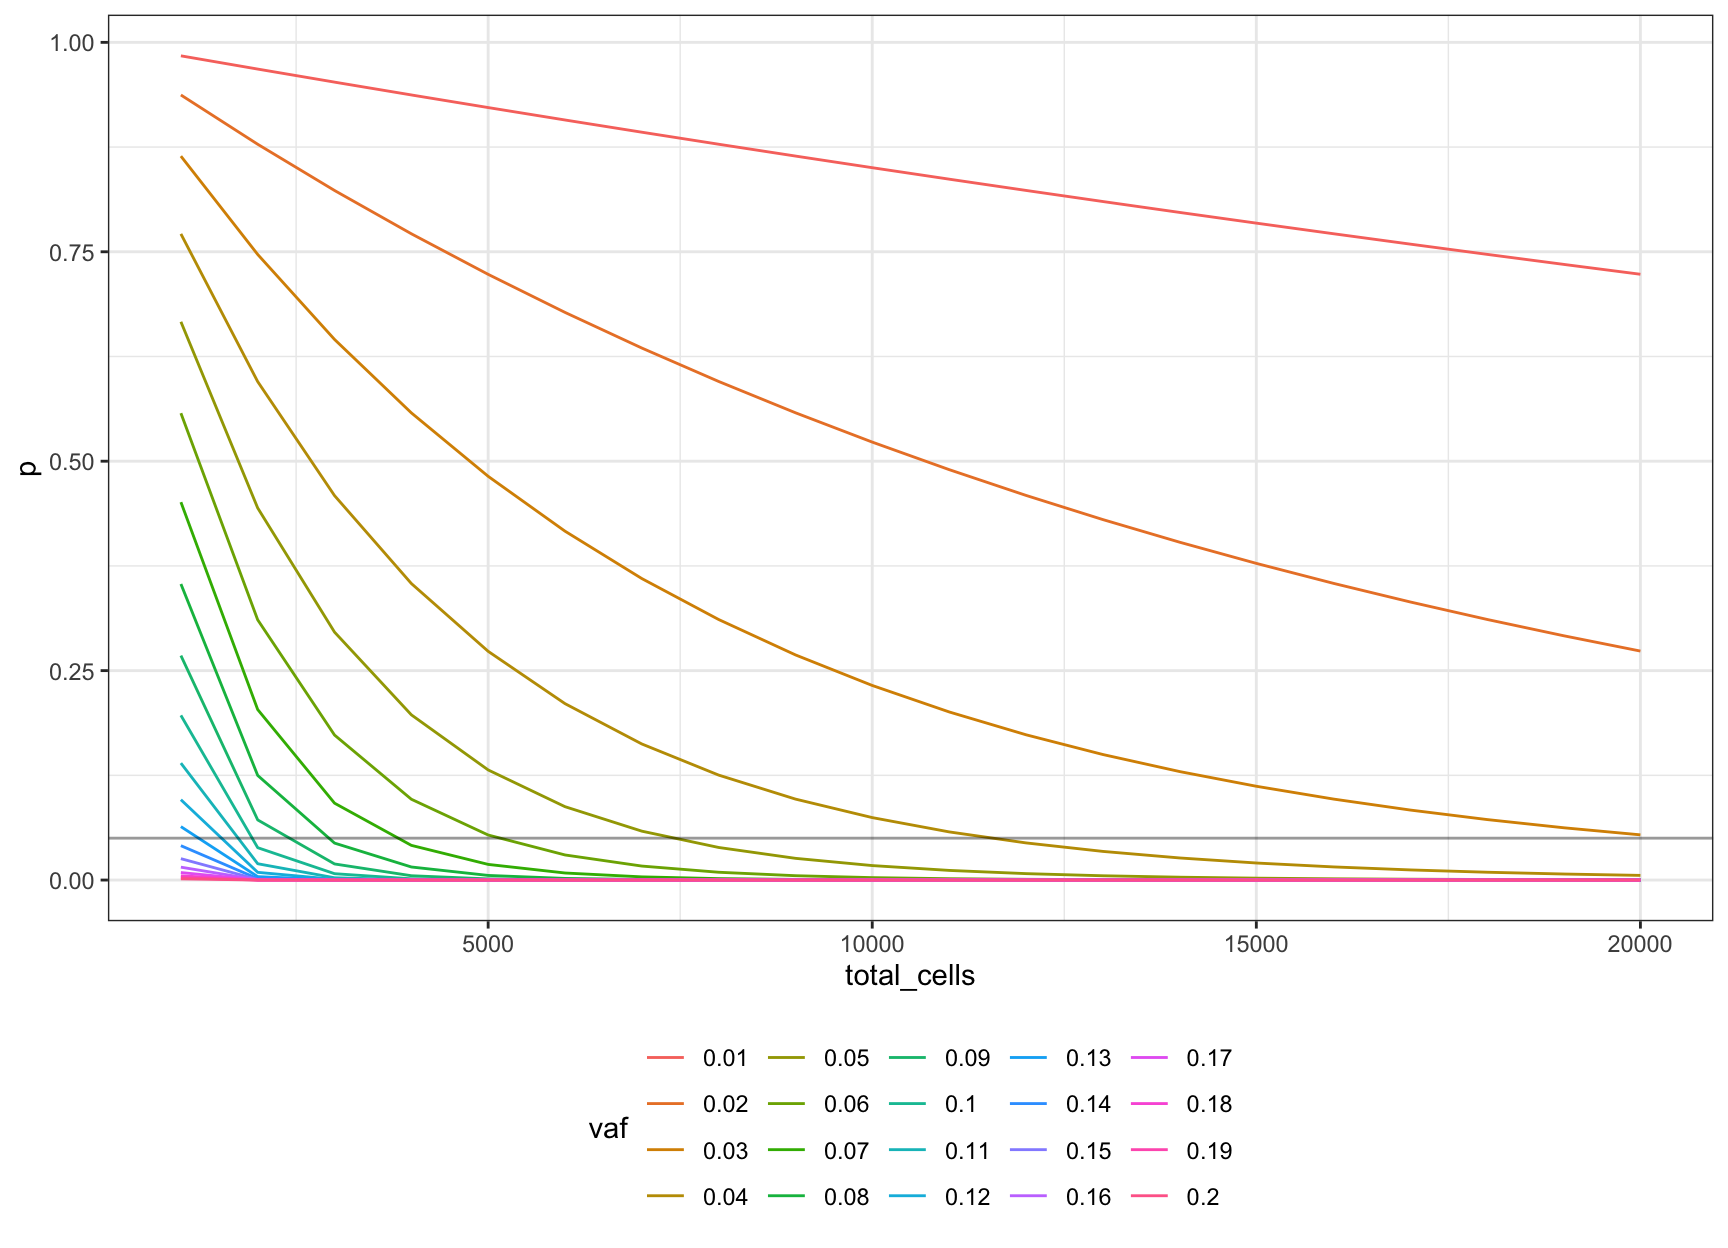
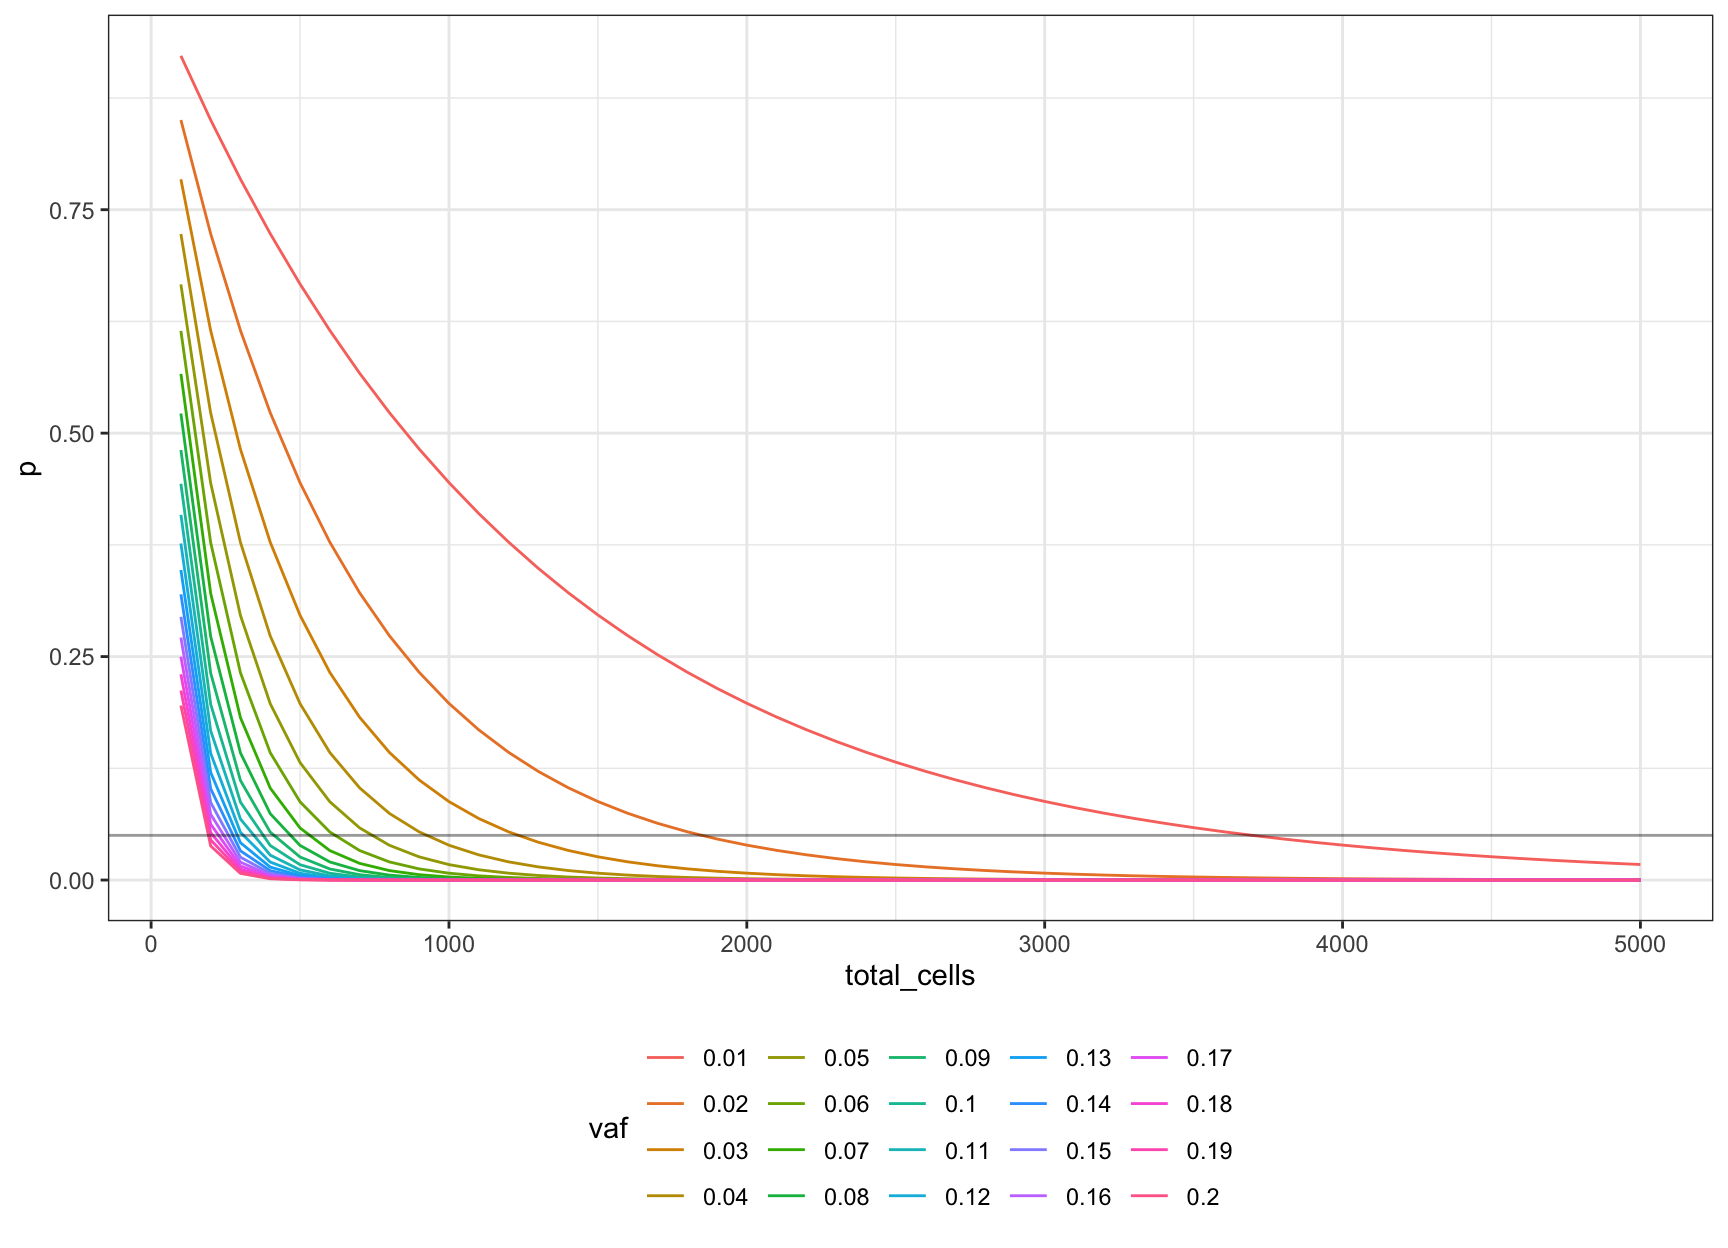
Fix probability of selecting mutant fragment

diff --git a/docs/model.html b/docs/model.html
@@ -367,7 +367,7 @@ div.tocify {
 
 <p>
 <button type="button" class="btn btn-default btn-workflowr btn-workflowr-report" data-toggle="collapse" data-target="#workflowr-report">
-<span class="glyphicon glyphicon-list" aria-hidden="true"></span> workflowr <span class="glyphicon glyphicon-ok text-success" aria-hidden="true"></span>
+<span class="glyphicon glyphicon-list" aria-hidden="true"></span> workflowr <span class="glyphicon glyphicon-exclamation-sign text-danger" aria-hidden="true"></span>
 </button>
 </p>
 <div id="workflowr-report" class="collapse">
@@ -376,7 +376,7 @@ div.tocify {
 <a data-toggle="tab" href="#summary">Summary</a>
 </li>
 <li>
-<a data-toggle="tab" href="#checks"> Checks <span class="glyphicon glyphicon-ok text-success" aria-hidden="true"></span> </a>
+<a data-toggle="tab" href="#checks"> Checks <span class="glyphicon glyphicon-exclamation-sign text-danger" aria-hidden="true"></span> </a>
 </li>
 <li>
 <a data-toggle="tab" href="#versions">Past versions</a>
@@ -388,7 +388,7 @@ div.tocify {
 <strong>Last updated:</strong> 2021-09-22
 </p>
 <p>
-<strong>Checks:</strong> <span class="glyphicon glyphicon-ok text-success" aria-hidden="true"></span> 7 <span class="glyphicon glyphicon-exclamation-sign text-danger" aria-hidden="true"></span> 0
+<strong>Checks:</strong> <span class="glyphicon glyphicon-ok text-success" aria-hidden="true"></span> 6 <span class="glyphicon glyphicon-exclamation-sign text-danger" aria-hidden="true"></span> 1
 </p>
 <p>
 <strong>Knit directory:</strong> <code>rare-mutation-detection-rmarkdown/</code> <span class="glyphicon glyphicon-question-sign" aria-hidden="true" title="This is the local directory in which the code in this file was executed."> </span>
@@ -404,12 +404,12 @@ This reproducible <a href="http://rmarkdown.rstudio.com">R Markdown</a> analysis
 <div class="panel panel-default">
 <div class="panel-heading">
 <p class="panel-title">
-<a data-toggle="collapse" data-parent="#workflowr-checks" href="#strongRMarkdownfilestronguptodate"> <span class="glyphicon glyphicon-ok text-success" aria-hidden="true"></span> <strong>R Markdown file:</strong> up-to-date </a>
+<a data-toggle="collapse" data-parent="#workflowr-checks" href="#strongRMarkdownfilestronguncommittedchanges"> <span class="glyphicon glyphicon-exclamation-sign text-danger" aria-hidden="true"></span> <strong>R Markdown file:</strong> uncommitted changes </a>
 </p>
 </div>
-<div id="strongRMarkdownfilestronguptodate" class="panel-collapse collapse">
+<div id="strongRMarkdownfilestronguncommittedchanges" class="panel-collapse collapse">
 <div class="panel-body">
-<p>Great! Since the R Markdown file has been committed to the Git repository, you know the exact version of the code that produced these results.</p>
+<p>The R Markdown file has unstaged changes. To know which version of the R Markdown file created these results, you’ll want to first commit it to the Git repo. If you’re still working on the analysis, you can ignore this warning. When you’re finished, you can run <code>wflow_publish</code> to commit the R Markdown file and build the HTML.</p>
 </div>
 </div>
 </div>
@@ -476,16 +476,16 @@ This reproducible <a href="http://rmarkdown.rstudio.com">R Markdown</a> analysis
 <div class="panel panel-default">
 <div class="panel-heading">
 <p class="panel-title">
-<a data-toggle="collapse" data-parent="#workflowr-checks" href="#strongRepositoryversionstrongahrefhttpsgithubcommcmeroraremutationdetectiontreede62c5c7a87a259f517eaf6b99676351f539ecaetargetblankde62c5ca"> <span class="glyphicon glyphicon-ok text-success" aria-hidden="true"></span> <strong>Repository version:</strong> <a href="https://github.com/mcmero/rare-mutation-detection/tree/de62c5c7a87a259f517eaf6b99676351f539ecae" target="_blank">de62c5c</a> </a>
+<a data-toggle="collapse" data-parent="#workflowr-checks" href="#strongRepositoryversionstrongahrefhttpsgithubcommcmeroraremutationdetectiontree2f677c24ba1c15f37208066f5e54186e58037430targetblank2f677c2a"> <span class="glyphicon glyphicon-ok text-success" aria-hidden="true"></span> <strong>Repository version:</strong> <a href="https://github.com/mcmero/rare-mutation-detection/tree/2f677c24ba1c15f37208066f5e54186e58037430" target="_blank">2f677c2</a> </a>
 </p>
 </div>
[2 lines of base64/hex data omitted]
 <div class="panel-body">
 <p>
 Great! You are using Git for version control. Tracking code development and connecting the code version to the results is critical for reproducibility.
 </p>
 <p>
-The results in this page were generated with repository version <a href="https://github.com/mcmero/rare-mutation-detection/tree/de62c5c7a87a259f517eaf6b99676351f539ecae" target="_blank">de62c5c</a>. See the <em>Past versions</em> tab to see a history of the changes made to the R Markdown and HTML files.
+The results in this page were generated with repository version <a href="https://github.com/mcmero/rare-mutation-detection/tree/2f677c24ba1c15f37208066f5e54186e58037430" target="_blank">2f677c2</a>. See the <em>Past versions</em> tab to see a history of the changes made to the R Markdown and HTML files.
 </p>
 <p>
 Note that you need to be careful to ensure that all relevant files for the analysis have been committed to Git prior to generating the results (you can use <code>wflow_publish</code> or <code>wflow_git_commit</code>). workflowr only checks the R Markdown file, but you know if there are other scripts or data files that it depends on. Below is the status of the Git repository when the results were generated:
@@ -495,6 +495,9 @@ Ignored files:
     Ignored:    .DS_Store
     Ignored:    .Rhistory
     Ignored:    .Rproj.user/
+
+Unstaged changes:
+    Modified:   analysis/model.Rmd
 
 </code></pre>
 <p>
@@ -533,6 +536,23 @@ Message
 </tr>
 </thead>
 <tbody>
+<tr>
+<td>
+html
+</td>
+<td>
+<a href="https://rawcdn.githack.com/mcmero/rare-mutation-detection/2f677c24ba1c15f37208066f5e54186e58037430/docs/model.html" target="_blank">2f677c2</a>
+</td>
+<td>
+mcmero
+</td>
+<td>
+2021-09-22
+</td>
+<td>
+Build site.
+</td>
+</tr>
 <tr>
 <td>
 Rmd
@@ -647,7 +667,7 @@ initial commit
 <div id="probability-of-sequencing-a-mutant-cell" class="section level2">
 <h2>Probability of sequencing a mutant cell</h2>
 <p>Let <span class="math inline">\(f\)</span> be the probability of sequencing a mutation from a single fragment, on both strands.</p>
-<p><span class="math inline">\(f = (v / p) d.l\)</span></p>
+<p><span class="math inline">\(f = (v / p) \times d \times l\)</span></p>
 <p>Where:</p>
 <ul>
 <li><span class="math inline">\(v\)</span> = target VAF</li>
@@ -655,21 +675,20 @@ initial commit
 <li><span class="math inline">\(d\)</span> = duplex efficiency (0.81)</li>
 <li><span class="math inline">\(l\)</span> = ligation efficiency (0.2)</li>
 </ul>
-<p>We assume the probability of selecting a mutant cell is binomially distributed. We want to know the probability of selecting at least one mutant cell:</p>
-<p><span class="math inline">\(P(Bin(f, m)) &gt; 0)\)</span> = 0.95</p>
+<p>We assume the probability of sequencing a mutant fragment is binomially distributed. We want to know the probability of selecting at least one mutant fragment:</p>
+<p><span class="math inline">\(P(Bin(f, n)) &gt; 0)\)</span> = 0.95</p>
 <p>This is equivalent to:</p>
-<p><span class="math inline">\(P(Bin(f, m)) = 0)\)</span> = 0.05</p>
-<p>Where <span class="math inline">\(m\)</span> is the number of mutant cells (<span class="math inline">\(15000 \times 2v\)</span>).</p>
-<p>Since we don’t know <span class="math inline">\(v\)</span>, we’ll define a vector of possible VAFs incremented by <span class="math inline">\(0.001\)</span>, <span class="math inline">\(V = \{0.001, 0.002..0.05\}\)</span>. Using these values, we can plot the probability of missing the mutant cell at each VAF (line is at 0.05).</p>
+<p><span class="math inline">\(P(Bin(f, n)) = 0)\)</span> = 0.05</p>
+<p>Where <span class="math inline">\(n\)</span> is the number of sequenced cells (15,000). We note that the number of mutant cells will, on average, will be <span class="math inline">\(2nv\)</span>.</p>
+<p>Since we don’t know <span class="math inline">\(v\)</span>, we’ll define a vector of possible VAFs incremented by <span class="math inline">\(0.001\)</span>, <span class="math inline">\(V = \{0.001, 0.002..0.01\}\)</span>. Using these values, we can plot the probability of <em>not</em> sequencing the mutant fragment, at each VAF (line is at 0.05).</p>
 <pre class="r"><code>d = 0.81
 l = 0.2
-v = seq(0.001, 0.05, 0.001)
+v = seq(0.001, 0.01, 0.0001)
 f = (v / 2) * d * l
 n = 15000
-m = n * (v * 2)
 
 vafs &lt;- data.frame(vaf=v,
-                   p=dbinom(0, m, f),
+                   p=dbinom(0, n, f),
                    mutant_cells=(n * v * 2))
 
 ggplot(vafs, aes(vaf, p)) +
@@ -768,22 +787,21 @@ mcmero
 </table>
 </div>
 </div>
-<p>For this range of VAFs, 0.01 (1%) is the smallest VAF for which the probability of missing the mutant is approximately 0.05. A VAF of 0.035 translates to 1050 mutant cells in our input of 15,000.</p>
+<p>For this range of VAFs, 0.0025 (0.25%) is the smallest VAF for which the probability of missing the mutant is approximately 0.05. A VAF of 0.0025 translates to 75 mutant cells on average in our input of 15,000.</p>
 <pre class="r"><code>deviation &lt;- abs(0.05 - vafs$p)
 print(vafs[which(deviation == min(deviation)),])</code></pre>
-<pre><code>     vaf          p mutant_cells
-35 0.035 0.05074321         1050</code></pre>
+<pre><code>      vaf          p mutant_cells
+16 0.0025 0.04793988           75</code></pre>
 </div>
 <div id="varying-the-number-of-input-cells" class="section level2">
 <h2>Varying the number of input cells</h2>
-<p>If we change the number of input cells, how does this change the probability calculation? Let’s assume the target VAF is 0.035 from our previous calculation (line is at 0.05).</p>
-<pre class="r"><code>v = 0.035
+<p>If we change the number of input cells, how does this change the probability calculation? Let’s assume the target VAF is 0.0025 from our previous calculation (line is at 0.05).</p>
+<pre class="r"><code>v = 0.0025
 n = seq(1000, 20000, 1000)
-m = n * (v * 2)
 f = (v / 2) * d * l
 
 cells &lt;- data.frame(vaf=v,
-                    p=dbinom(0, m, f),
+                    p=dbinom(0, n, f),
                     total_cells=n,
                     mutant_cells=(n * v * 2))
 
@@ -832,13 +850,13 @@ mcmero
 <p>We can then expand this to different target VAFs.</p>
 <p>Let’s define our VAFs as <span class="math inline">\(V = \{0.01, 0.02..0.2\}\)</span> and put these on a single plot (line at p = 0.05).</p>
 <pre class="r"><code>cells_vs_vaf = NULL
+n = seq(100, 5000, 100)
 V = seq(0.01, 0.20, 0.01)
 for (v in V) {
-    m = n * (v * 2)
     f = (v / 2) * d * l
     toadd &lt;- data.frame(
         vaf=as.factor(v),
-        p=dbinom(0, m, f),
+        p=dbinom(0, n, f),
         total_cells=n
     )
     cells_vs_vaf &lt;- rbind(cells_vs_vaf, toadd)
